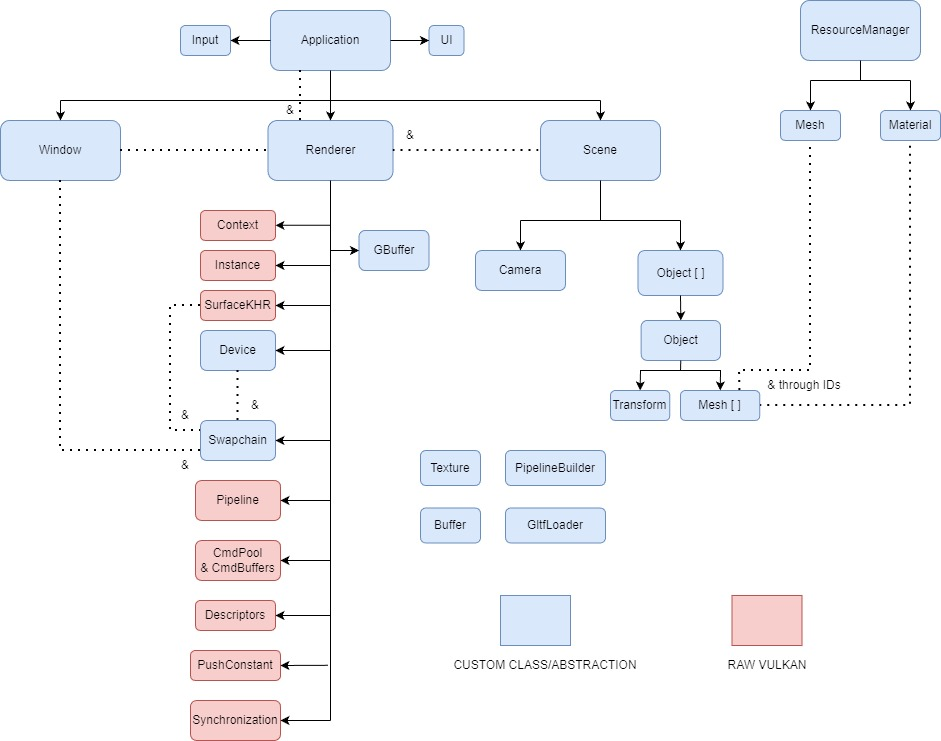
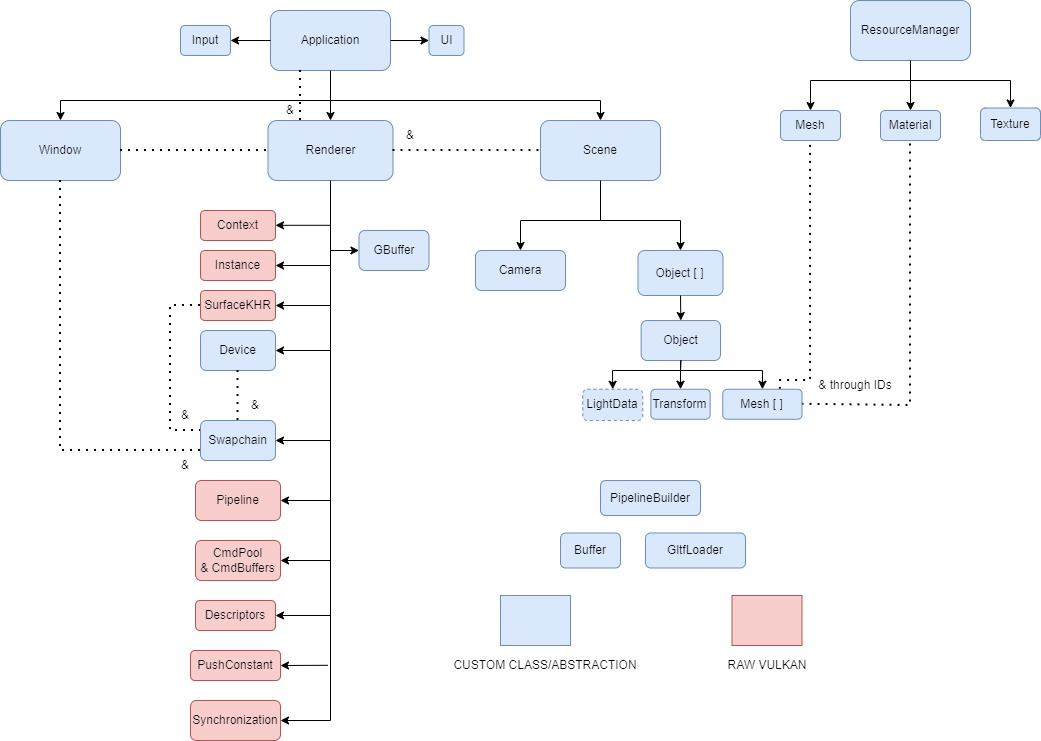
Update README and architecture diagram

diff --git a/README.md b/README.md
@@ -2,15 +2,17 @@
 
 ![Renderer](rendering.png)
 
-Felina is a 3D renderer, i.e. a piece of software which takes a scene description as input and produces pretty visuals as output. 
-It is written in C++20 and uses Vulkan 1.4 under the hood.
+Felina is a 3D renderer, i.e. a piece of software which takes a scene description as input and produces pretty visuals as output.
+It is written in C++ and based on the Vulkan graphics API.
 
-This project started as a way of learning the Vulkan API and getting some hands-on experience on C++, 
-then it became more of a tool to study and experiment with real-time rendering techniques that pique my interests. 
-Sometimes some quality of life features outside of real-time rendering are added to improve the user experience, 
-e.g. basic user interface, abstractions, etc.
+This is a learning projects which I'm still updating, as such, some parts of it are pretty rough and not polished as I'd like them to be. 
+Right now, I'm prioritizing adding new features each time, and in doing so, I try to avoid bikeshedding as much as possible 
+(i.e. if I could take a shortcut, I will). From time to time, I revisit parts of the codebase to refactor and improve its structure and readability.
 
-Currently I'm working on adding texture supports on my materials.
+While the primary goal of this project is understanding and practicing real-time rendering techniques, 
+I also use it as a platform to refine my software engineering skills.
+
+*I'm currently working on adding shadow mapping and exploring the possibility of migrating the current descriptor system to the new VK_EXT_descriptor_heap.*
 
 # Features
 - simple user interface
@@ -18,13 +20,17 @@ Currently I'm working on adding texture supports on my materials.
 - PBR material system
 - texture support
 - glTF scene loading
+- skybox (with on the fly conversion from equirectangular to cubemap)
+- multiple punctual lights support
 # Roadmap
 ## Short term
-- multiple lights
+- shadow mapping
+- migration to VK_EXT_descriptor_heap
+- normal mapping
 - improve UX
+- improve portability
 ## Long term
-- cascaded shadow maps
-- hybrid GI
+- DDGI-based global illumination
 
 # Getting Started
 ## Prerequisites
@@ -69,7 +75,7 @@ cmake ..
 | 3            | Normal.X       | Normal.Y       | Normal.Z        | Unused |
 | 4            | Depth          | Depth          | Depth           | Depth  |
 
-## Descriptors
+## Descriptor sets
 ### Geometry Pass
 | Descriptor Set Layout | Binding | Set | VS  | FS  |
 | :-------------------- | :-----: | :-: | :-: | :-: |
@@ -88,7 +94,11 @@ cmake ..
 | Descriptor Set Layout |        Binding         | Set | VS  | FS  |
 | :-------------------- | :--------------------: | :-: | :-: | :-: |
 | Camera                |           0            |  0  |  N  |  Y  |
-| GBuffer               | See attachment # above |  1  |  N  |  Y  |
+| Lights                |           0            |  1  |  N  |  Y  |
+| GBuffer               | See attachment # above |  2  |  N  |  Y  |
+| Samplers              |			0			 |  3  |  N  |  Y  |
+| Textures              |			1			 |  3  |  N  |  Y  |
+| Skybox                |			2			 |  3  |  N  |  Y  |
 
 # References
 
@@ -102,3 +112,4 @@ https://docs.vulkan.org/guide/latest/hlsl.html
 ## On specific topics
 https://developer.nvidia.com/vulkan-memory-management
 https://wallisc.github.io/rendering/2021/04/18/Fullscreen-Pass.html
+https://learnopengl.com/PBR/IBL/Diffuse-irradiance
